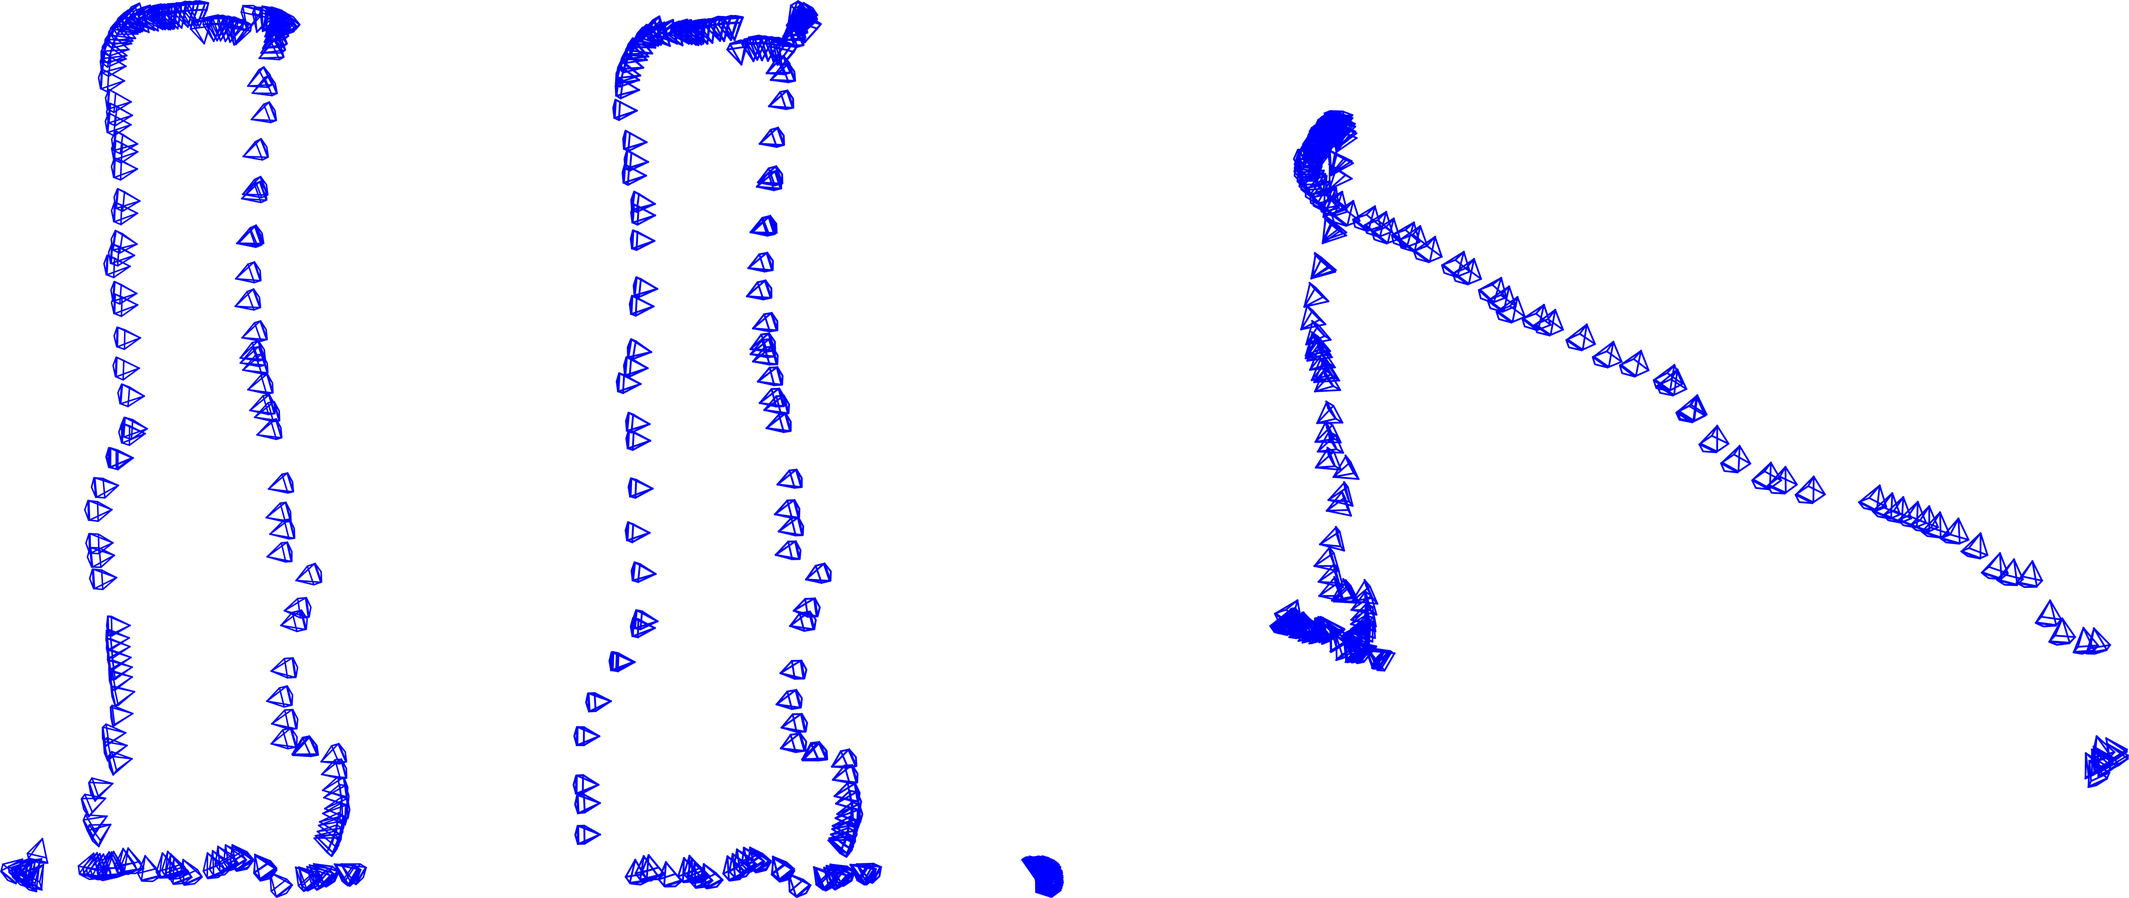
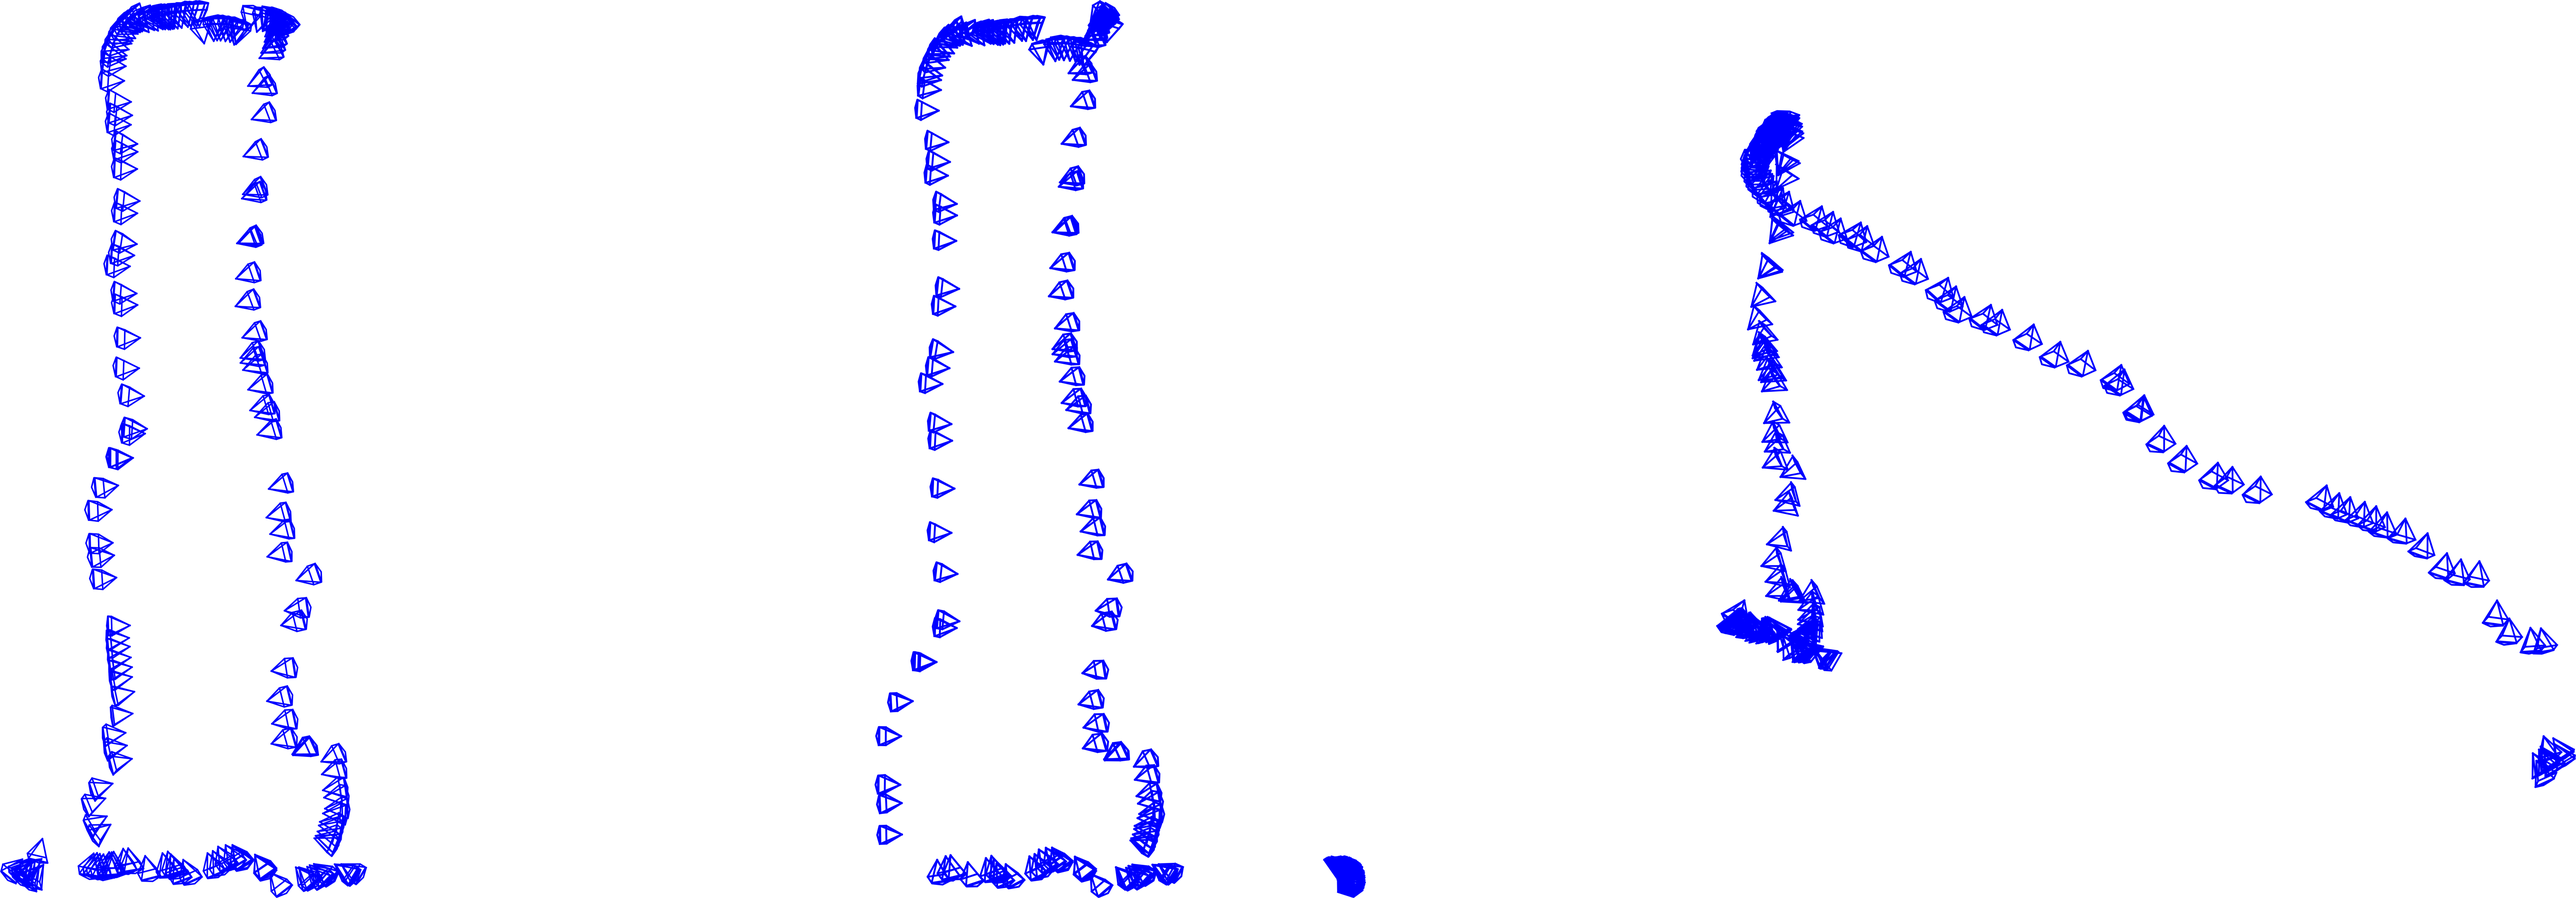
.

diff --git a/mocapgs.tex b/mocapgs.tex
@@ -518,18 +518,18 @@ Figure~\ref{fig:photolab_scene} illustrates the impact of this drift on the reco
     \centering
     \captionsetup[subfigure]{labelformat=empty}
     \begin{subfigure}{0.32\textwidth}
-        \centering
-        \includegraphics[width=\linewidth]{figures/scene_mocapgs.png}
+        \raggedright
+        \includegraphics[width=0.8\linewidth]{figures/scene_mocapgs.png}
         \caption{MocapGS-Fixed}
     \end{subfigure}\hfill
     \begin{subfigure}{0.32\textwidth}
         \centering
-        \includegraphics[width=\linewidth]{figures/scene_3dgs.png}
+        \includegraphics[width=0.8\linewidth]{figures/scene_3dgs.png}
         \caption{3DGS}
     \end{subfigure}\hfill
     \begin{subfigure}{0.32\textwidth}
-        \centering
-        \includegraphics[width=\linewidth]{figures/scene_onthefly_nvs.png}
+        \raggedleft
+        \includegraphics[width=0.8\linewidth]{figures/scene_onthefly_nvs.png}
         \caption{On-the-fly NVS}
     \end{subfigure}
 
